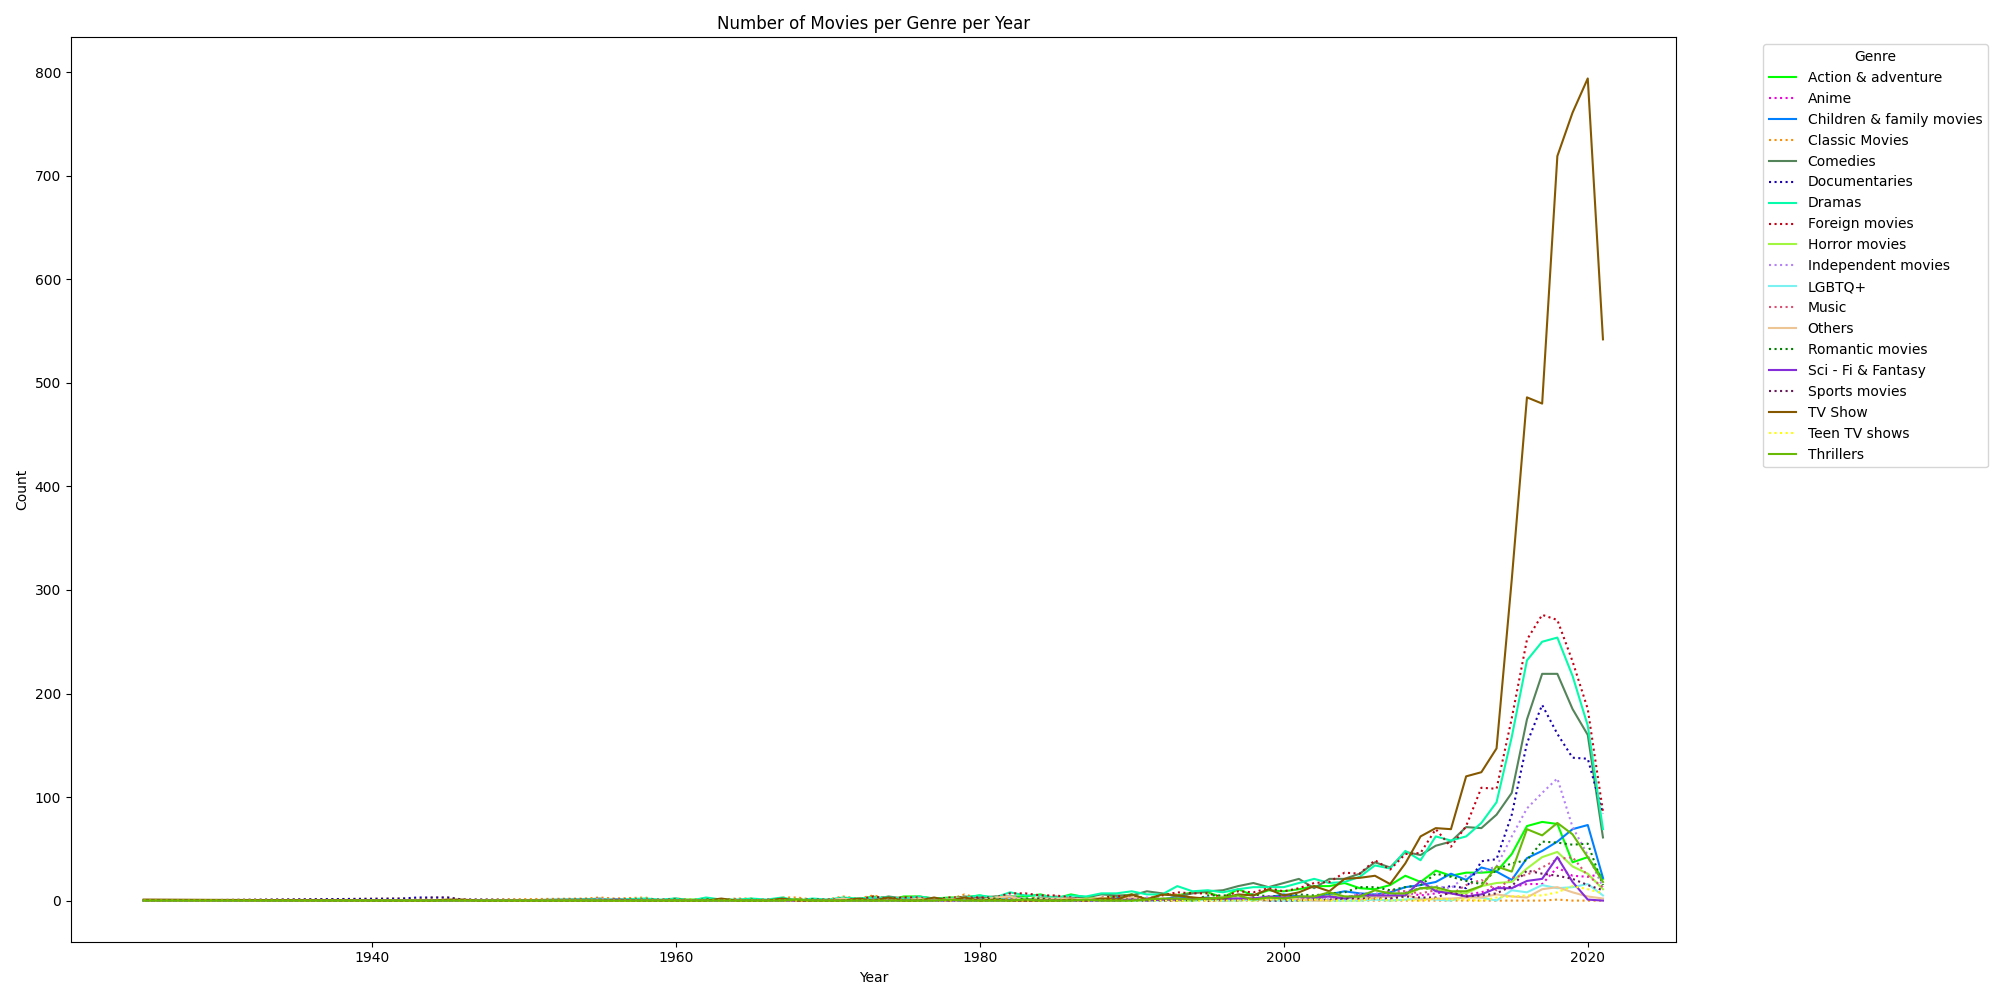
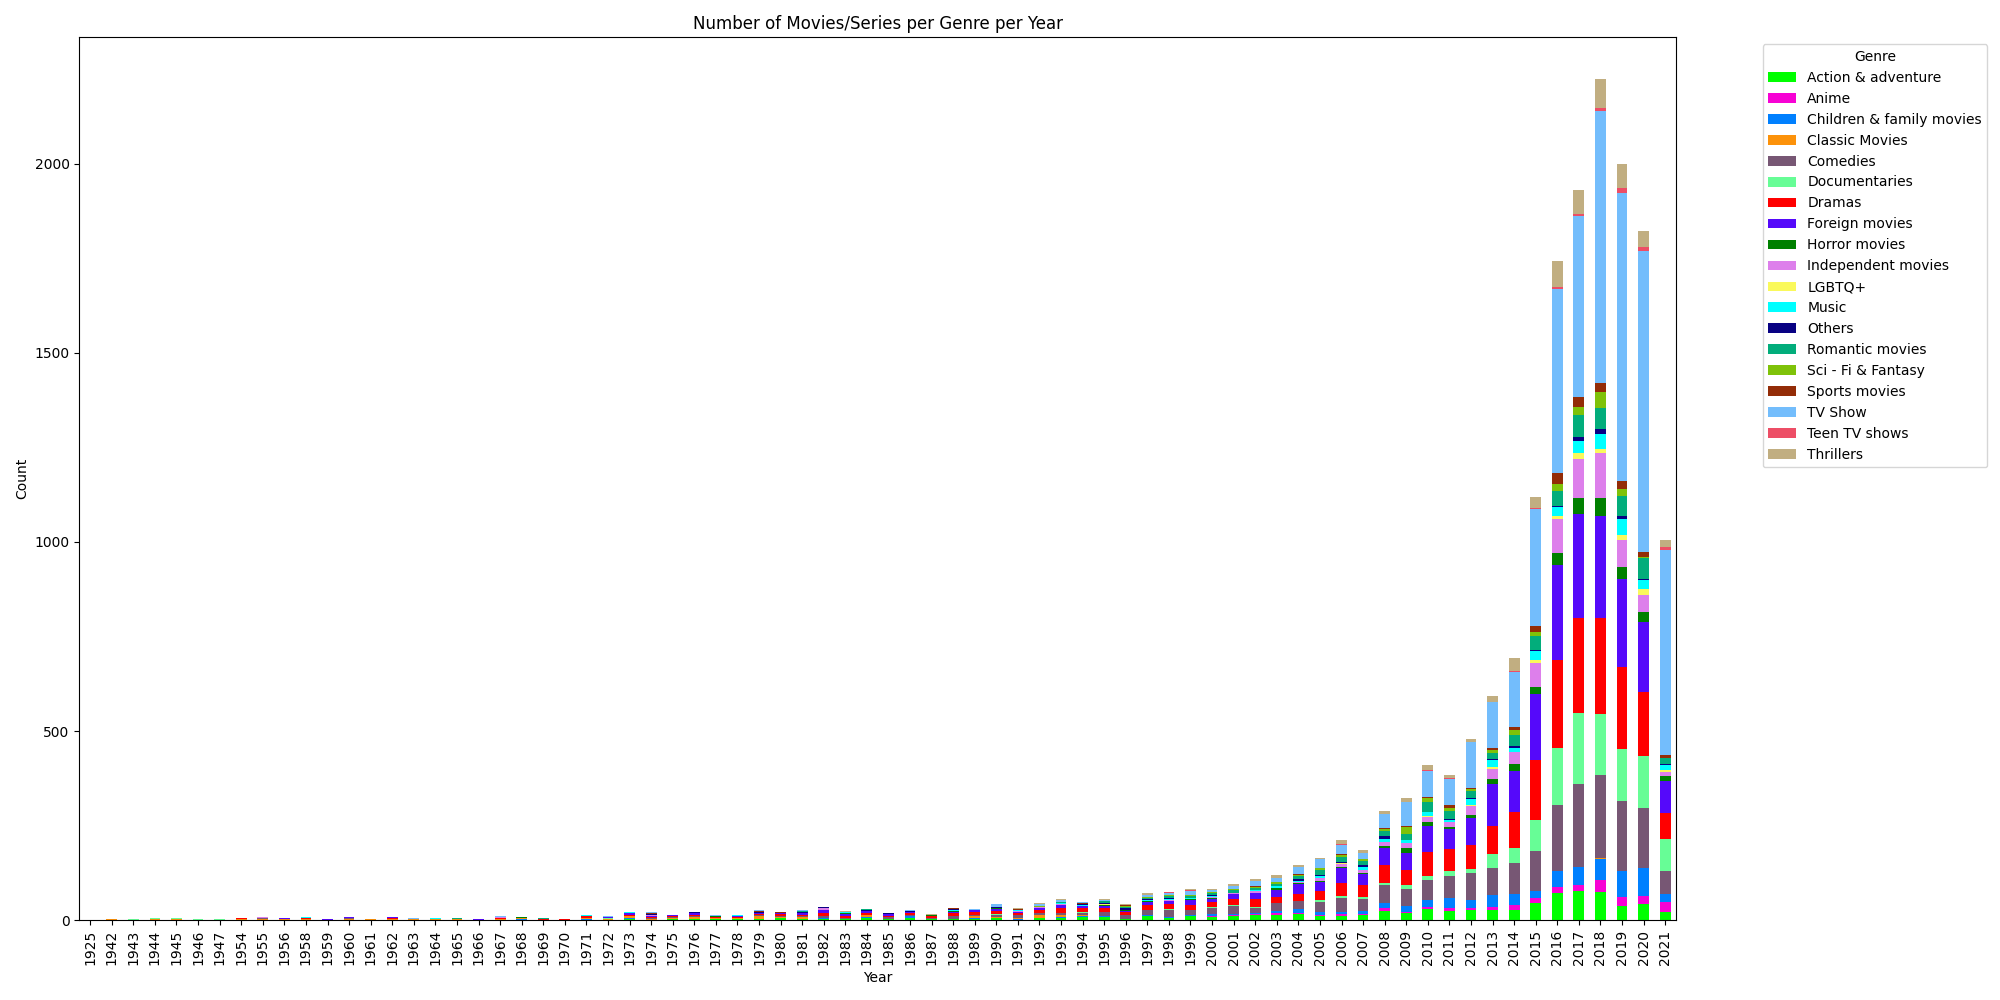
fixed a1 to barplots

diff --git a/src/analyzer.py b/src/analyzer.py
@@ -79,29 +79,26 @@ class Analyzer:
         releases_df.to_excel("results/s1/releases_by_year.xlsx", index=False)
 
         # -----------------------------
-        # Plot 2: Movies per genre per year
+        # Plot 2: Movies/series per genre per year (stacked bar plot)
         # -----------------------------
         if 'genre_group' not in df.columns:
             print("genre_group column not found.")
             return
 
-        # Split the 'listed_in' column by comma and explode
-        # df['Genre'] = df['listed_in'].str.split(', ')
-        # df_exploded = df.explode('Genre')
-
         genre_counts = df.groupby(['Year', 'genre_group']).size().unstack(fill_value=0)
+
         # Generate visually distinct colors
         distinct_colors = distinctipy.get_colors(genre_counts.shape[1])
 
-        # Plot manually to control linestyle
-        plt.figure(figsize=(20, 10))
-        linestyles = ['-', ':']  # Alternating solid and dotted lines
+        # Plot as stacked bar plot
+        genre_counts.plot(
+            kind='bar',
+            stacked=True,
+            figsize=(20, 10),
+            color=distinct_colors
+        )
 
-        for i, (genre, color) in enumerate(zip(genre_counts.columns, distinct_colors)):
-            linestyle = linestyles[i % len(linestyles)]
-            plt.plot(genre_counts.index, genre_counts[genre], label=genre, color=color, linestyle=linestyle)
-
-        plt.title("Number of Movies per Genre per Year")
+        plt.title("Number of Movies/Series per Genre per Year")
         plt.xlabel("Year")
         plt.ylabel("Count")
         plt.legend(title='Genre', bbox_to_anchor=(1.05, 1), loc='upper left')
@@ -111,11 +108,10 @@ class Analyzer:
 
         # Save genre data to Excel
         genre_counts.to_excel("results/s1/movies_per_genre_per_year.xlsx")
-        
+
         # -----------------------------
-        # Plot 2.1: TV Show subgenres per year
+        # Plot 2.1: TV Show subgenres per year (stacked bar plot)
         # -----------------------------
-        # Filter for TV Shows
         df_tv_show = df[df['genre_group'] == 'TV Show'].copy()
 
         # Ensure Genre is split correctly if it's a string with commas
@@ -131,13 +127,13 @@ class Analyzer:
         # Generate visually distinct colors
         distinct_colors = distinctipy.get_colors(subgenre_counts.shape[1])
 
-        # Plot manually to control linestyle
-        plt.figure(figsize=(20, 10))
-        linestyles = ['-', ':']
-
-        for i, (genre, color) in enumerate(zip(subgenre_counts.columns, distinct_colors)):
-            linestyle = linestyles[i % len(linestyles)]
-            plt.plot(subgenre_counts.index, subgenre_counts[genre], label=genre, color=color, linestyle=linestyle)
+        # Plot as stacked bar plot
+        subgenre_counts.plot(
+            kind='bar',
+            stacked=True,
+            figsize=(20, 10),
+            color=distinct_colors
+        )
 
         plt.title("Number of TV Show Subgenres per Year")
         plt.xlabel("Year")
@@ -149,7 +145,7 @@ class Analyzer:
 
         # Save genre data to Excel
         subgenre_counts.to_excel("results/s1/subgenre_counts.xlsx")
-
+        
         # -----------------------------
         # Plot 3: Movies/Series per type per year
         # -----------------------------
@@ -205,28 +201,13 @@ class Analyzer:
         # -----------------------------
         # Load Files
         # -----------------------------
-        releases_df = pd.read_excel("results/s1/releases_by_year.xlsx")
-        genre_counts = pd.read_excel("results/s1/movies_per_genre_per_year.xlsx", index_col=0)
-        type_counts = pd.read_excel("results/s1/types_per_year.xlsx", index_col=0)
-        rating_counts = pd.read_excel("results/s1/ratings_per_year.xlsx", index_col=0)
+        genres = pd.read_excel("results/s1/movies_per_genre_per_year.xlsx", index_col=0)
+        ratings = pd.read_excel("results/s1/ratings_per_year.xlsx", index_col=0)
 
         # -----------------------------
-        # 1. YoY % Change – Total Releases
+        # 5. Genre Share Evolution
         # -----------------------------
-        releases_df['YoY_%_Change'] = releases_df['Count'].pct_change() * 100
-        releases_df['Cumulative_Count'] = releases_df['Count'].cumsum()
-        releases_df.to_excel("results/evaluation/releases_yoy_evaluation.xlsx", index=False)
-
-        # -----------------------------
-        # 2. YoY % Change – Genre
-        # -----------------------------
-        genre_yoy = genre_counts.pct_change() * 100
-        genre_yoy.to_excel("results/evaluation/genre_yoy_pct_change.xlsx")
-
-        # -----------------------------
-        # 3. Genre Share Evolution
-        # -----------------------------
-        genre_share = genre_counts.div(genre_counts.sum(axis=1), axis=0) * 100
+        genre_share = genres.div(genres.sum(axis=1), axis=0) * 100
         genre_share.to_excel("results/evaluation/genre_share_percent_by_year.xlsx")
 
         # Plot
@@ -240,27 +221,15 @@ class Analyzer:
         plt.clf()
 
         # -----------------------------
-        # 4. Top Genre per Year
+        # 6. Top Genre per Year
         # -----------------------------
-        top_genre_per_year = genre_counts.idxmax(axis=1)
+        top_genre_per_year = genres.idxmax(axis=1)
         top_genre_per_year.to_frame(name='Top_Genre').to_excel("results/evaluation/top_genre_per_year.xlsx")
-
-        # -----------------------------
-        # 5. Type YoY % Change
-        # -----------------------------
-        type_yoy = type_counts.pct_change() * 100
-        type_yoy.to_excel("results/evaluation/types_yoy_pct_change.xlsx")
-
-        # -----------------------------
-        # 6. Rating YoY % Change
-        # -----------------------------
-        rating_yoy = rating_counts.pct_change() * 100
-        rating_yoy.to_excel("results/evaluation/ratings_yoy_pct_change.xlsx")
 
         # -----------------------------
         # 7. Top Rating per Year
         # -----------------------------
-        top_rating_per_year = rating_counts.idxmax(axis=1)
+        top_rating_per_year = ratings.idxmax(axis=1)
         top_rating_per_year.to_frame(name='Top_Rating').to_excel("results/evaluation/top_rating_per_year.xlsx")
 
     def genre(self, df):
